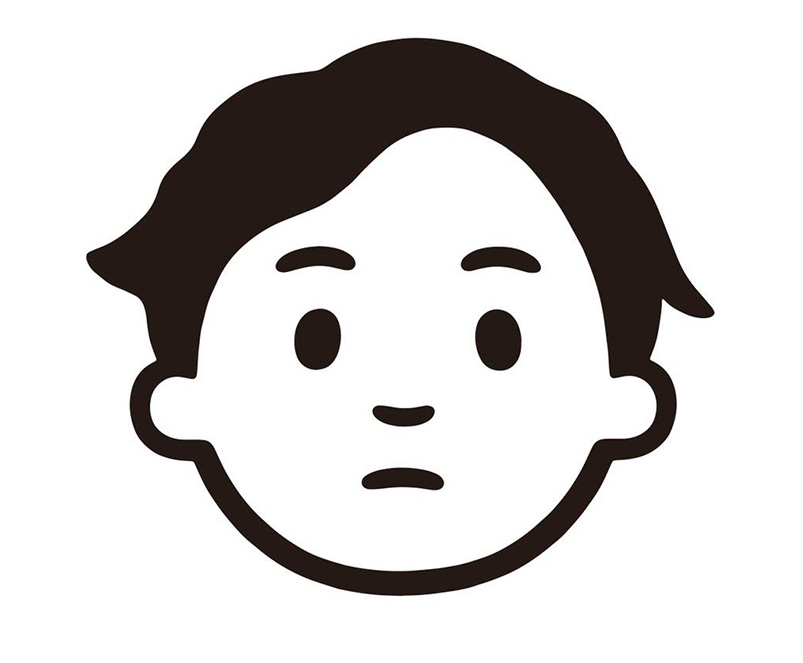
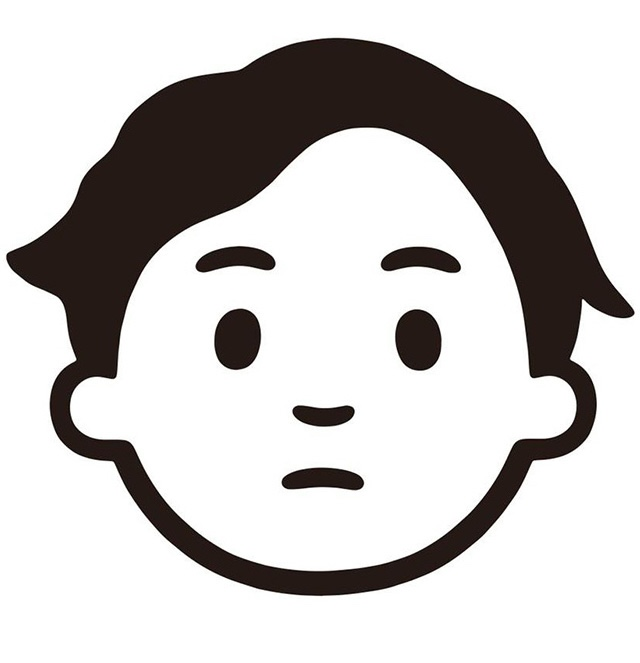
update info

diff --git a/index.html b/index.html
@@ -104,6 +104,16 @@
         <!-- 右侧主内容 -->
         <div class="column right-panel">
           <div class="content">
+            <!--About Me-->
+            <h2 id="intro">About Me</h2>
+            <p>
+               I am currently working as an Algorithm Engineer at <a href="https://www.alibabagroup.com/about-alibaba-businesses-1747834135814078464">Alibaba Local Service Company</a>, where my primary responsibilities encompass optimizing marketing and recommender systems through algorithmic enhancements and efficiency improvements. Additionally, I actively investigate cutting-edge AIGC methodologies to drive innovation in business applications.
+              </p>
+
+            <p>
+              I received my M.E. from the Intelligent Gaming Laboratory in the Department of Automation and Artificial Intelligence at Nanjing University (NJU), under the supervision of Professor <a href="https://sme.nju.edu.cn/zxz/list.htm">Xianzhong Zhou</a>. Previously, I obtained my B.E. from Northeastern University(NEU). My research interests span reinforcement learning, AIGC, advertising & marketing, and recommender systems.
+             </p>
+            
             <!-- 研究兴趣 -->
             <h2 id="interests">Research Interests</h2>
             <ul>
@@ -115,7 +125,7 @@
             <!-- 工作经历 -->
             <article class="columns">
                 <div class="column is-3">
-		  <figure class="image">
+		              <figure class="image">
                     <img src="./Files/alibaba_logo.png" alt="Alibaba Group" class="project-image">
                   </figure>
                 </div>
@@ -130,7 +140,7 @@
 
             <article class="columns">
                 <div class="column is-3">
-		  <figure class="image">
+		              <figure class="image">
                     <img src="./Files/4paradigm_logo.jpg" alt="4Paradigm" class="project-image">
                   </figure>
                 </div>
@@ -152,8 +162,8 @@
               </div>
               <div class="column">
                 <p>
-                  <b>M.E. in Control Science</b><br>
-                  [Nanjing University (NJU)](https://www.nju.edu.cn/main.htm)<br>
+                  <b>M.E. in Automation and Artificial Intelligence</b><br>
+                  <a href="https://www.nju.edu.cn/main.htm">Nanjing University (NJU)</a><br>
                   2020.09 - 2023.06<br>
                   Advisor: Prof. Xianzhong Zhou
                 </p>
@@ -169,7 +179,7 @@
                 <div class="column">
                   <p>
                     <b>B.E. in Northeastern University</b><br>
-                    [Northeastern University (NEU)](http://www.neu.edu.cn/)<br>
+                    <a href="http://www.neu.edu.cn/">Northeastern University (NEU)</a><br>
                     2016.9-2020.6<br>
                   </p>
                 </div>
